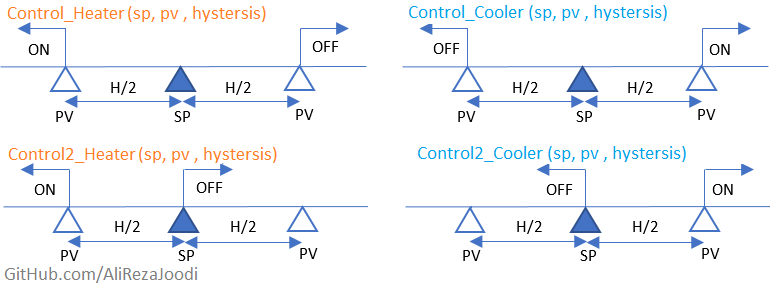
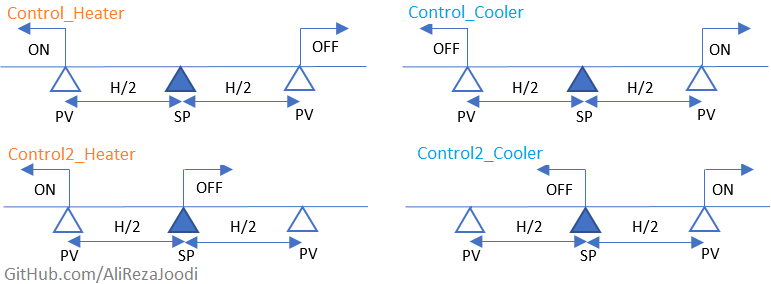
chore: update controller_onoff

diff --git a/Modules/controller_onoff.c b/Modules/controller_onoff.c
@@ -3,64 +3,17 @@
 #include "controller_onoff.h"
 
 //******************************************
-uint8_t Controller_OnOff(uint16_t pv, uint16_t sp, uint16_t hystersis){
-    //uint16_t error = 0;
+uint8_t Controller_OnOff(uint16_t pv, uint16_t sp, uint16_t hys){
+    if(sp < hys){
+        return 3;   // error
+    }
 
-    if(pv < (sp - hystersis)){
+    if(pv < (sp - hys)){
         return 1;
     }
-    else if(pv > (sp + hystersis)){
+    else if(pv > (sp + hys)){
         return 2;
-    };
+    }
 
     return 0;
 }
-//
-////******************************************
-//char Controller_OnOff_Heater(float sp,float pv, float hystersis){
-//    float error=0;
-//    static char heater=0;
-//
-//    error=sp-pv;
-//    if(error>(hystersis/2)){heater=HEATER_ACTIVE;}
-//        else if(error<-(hystersis/2)){heater=!HEATER_ACTIVE;};
-//
-//    return heater;
-//}
-//
-////******************************************
-//char Controller_OnOff2_Heater(float sp,float pv, float hystersis){
-//    float error=0;
-//    static char heater=0;
-//
-//    error=sp-pv;
-//    if(error>(hystersis/2)){heater=HEATER_ACTIVE;}
-//        else if(error<0){heater=!HEATER_ACTIVE;};
-//
-//    return heater;
-//}
-//
-////******************************************
-//char Controller_OnOff_Cooler(float sp,float pv, float hystersis){
-//    float error=0;
-//    static char cooler=0;
-//
-//    error=sp-pv;
-//    if(error<-(hystersis/2)){cooler=COOLER_ACTIVE;}
-//        else if(error>(hystersis/2)){cooler=!COOLER_ACTIVE;};
-//
-//    return cooler;
-//}
-//
-////******************************************
-//char Controller_OnOff2_Cooler(float sp,float pv, float hystersis){
-//    float error=0;
-//    static char cooler=0;
-//
-//    error=sp-pv;
-//    if(error<-(hystersis/2)){cooler=COOLER_ACTIVE;}
-//        else if(error>0){cooler=!COOLER_ACTIVE;};
-//
-//    return cooler;
-//}
-//

diff --git a/Modules/controller_onoff.h b/Modules/controller_onoff.h
@@ -3,19 +3,17 @@
 #ifndef CONTROLLER_ONOFF_INCLUDED
 #define CONTROLLER_ONOFF_INCLUDED
 
-#ifndef CONTROLLER_ONOFF_HARDWARE
-#define CONTROLLER_ONOFF_HARDWARE
-    #define HEATER_ACTIVE         1
-    #define COOLER_ACTIVE         1
+#ifdef __cplusplus
+extern "C" {
 #endif
 
 #include <stdint.h>
 
-uint8_t Controller_OnOff(uint16_t pv, uint16_t sp, uint16_t hystersis);
+uint8_t Controller_OnOff(uint16_t pv, uint16_t sp, uint16_t hys);
 
-//char Controller_OnOff_Heater(float sp,float pv, float hystersis);
-//char Controller_OnOff2_Heater(float sp,float pv, float hystersis);
-//char Controller_OnOff_Cooler(float sp,float pv, float hystersis);
-//char Controller_OnOff2_Cooler(float sp,float pv, float hystersis);
+#ifdef __cplusplus
+}
+#endif
 
 #endif
+
